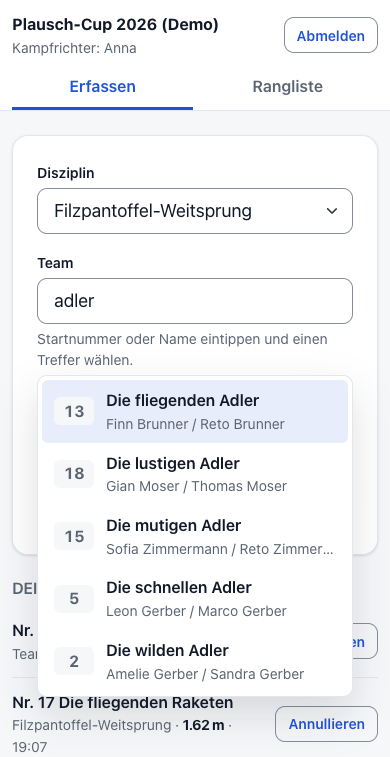
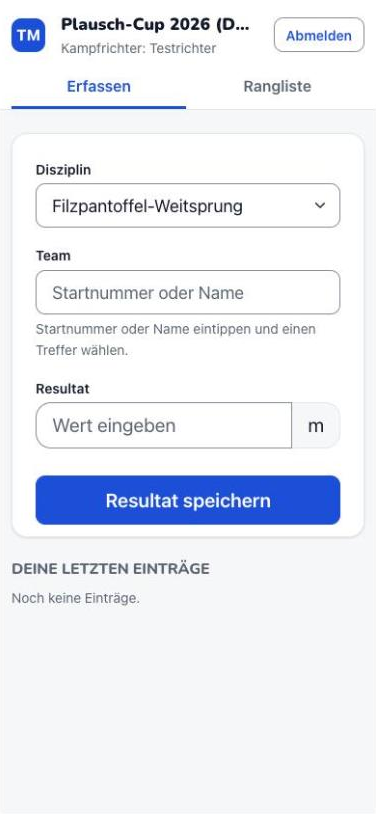
v0.12.1: Fehlerseiten, Anmelde-Bestätigung, Mail, Karten ohne Foto, Kampfrichter-Kopf; README-Screenshots
- Hinweis-/Fehlerseiten im Seitenlayout mit «Zur Startseite»
- Anmelde-Bestätigung mit Startnummer als Sticker, Mail mit Vereinsfarben-Kopf
- Disziplin-Karten ohne Foto kompakt, Kampfrichter-Kopf mit Logo
- format_text: Liste und Folgezeile ohne Leerzeile werden getrennt
- README: neue Screenshots (Demo-Verein, gemeinfreie Fotos und KI-Bilder)

diff --git a/assets/css/app.css b/assets/css/app.css
@@ -664,6 +664,8 @@ pre.env-preview {
     z-index: 1020;
 }
 .judge-event { font-weight: 700; }
+.font-rounded .judge-event { font-family: var(--font-display); font-weight: 900; font-size: 1.1rem; }
+.judge-logo img, .judge-logo .logo-placeholder { height: 2.2rem; }
 .judge-name { font-size: var(--fs-sm); color: var(--text-muted); }
 .judge-tabs { display: flex; gap: var(--space-1); margin-top: var(--space-2); }
 .judge-tabs a {
@@ -1387,6 +1389,43 @@ html { scroll-padding-top: 5rem; scroll-padding-bottom: 6rem; } /* Fokus nicht u
     .podium--classic .podium-3 { order: 3; }
 }
 .ranking-explain { border-radius: 1.25rem; }
+
+/* Disziplin-Karten ohne Foto: niedriger statt leerem Hochformat (ab 0.12.1) */
+.disc-card:not(.disc-card--photo) { aspect-ratio: auto; min-height: 9.5rem; }
+.disc-card:not(.disc-card--photo) .disc-text { position: relative; padding-top: 3.6rem; }
+
+/* Bestätigung nach der Anmeldung */
+.done-card .card-body { text-align: center; padding: clamp(2rem, 6vw, 3rem) var(--space-5); }
+.done-badge { display: inline-grid; place-items: center; width: 3.2rem; height: 3.2rem; border-radius: 50%; background: var(--success-subtle); color: var(--success); margin-bottom: var(--space-3); }
+.done-badge .ico { width: 1.6rem; height: 1.6rem; stroke-width: 3; vertical-align: 0; }
+.done-title { font-size: clamp(1.6rem, 1.2rem + 1.6vw, 2.2rem); margin-bottom: var(--space-1); overflow-wrap: anywhere; }
+.font-rounded .done-title { font-weight: 900; }
+.done-sub { font-size: var(--fs-lg); margin-bottom: var(--space-5); }
+.done-number { display: inline-flex; flex-direction: column; align-items: center; gap: var(--space-2); margin-bottom: var(--space-4); }
+.done-number-label { font-weight: 700; color: var(--text-muted); font-size: var(--fs-sm); }
+.done-number-value {
+    display: inline-grid;
+    place-items: center;
+    min-width: 5.5rem;
+    padding: 0.6rem 1.2rem;
+    border-radius: 1.1rem;
+    background: var(--accent);
+    color: var(--accent-contrast);
+    font-family: var(--font-display);
+    font-weight: 900;
+    font-size: 3.2rem;
+    line-height: 1;
+    font-variant-numeric: tabular-nums;
+    box-shadow: 0 6px 0 rgba(0, 0, 0, 0.18);
+    transform: rotate(var(--tilt));
+}
+
+/* Hinweis- und Fehlerseiten */
+.message-page { text-align: center; padding: clamp(3rem, 10vw, 6rem) var(--space-4); }
+.message-badge { width: 3.4rem; height: 3.4rem; margin-bottom: var(--space-4); }
+.message-badge .ico { width: 1.8rem; height: 1.8rem; }
+.message-text { font-size: clamp(1.25rem, 1rem + 1vw, 1.6rem); font-weight: 700; max-width: 34rem; margin: 0 auto var(--space-5); text-wrap: balance; }
+.font-rounded .message-text { font-family: var(--font-display); font-weight: 800; }
 @media (max-width: 575.98px) {
     .podium { gap: var(--space-2); }
     .podium-place {

diff --git a/templates/mail/registration.php b/templates/mail/registration.php
@@ -1,25 +1,57 @@
 <?php
-/** HTML-Bestätigungsmail. @var array $event  @var array $data  @var int $startNo  @var string $clubName */
+/**
+ * HTML-Bestätigungsmail (ab 0.12.1 im Stil der Website): Kopfbalken in der Vereinsfarbe, Startnummer gross.
+ * Tabellen und Inline-Stile, keine Bilder und keine Webfonts – so sieht sie in Outlook, Gmail und Apple Mail gleich aus.
+ * @var array $event  @var array $data  @var int $startNo  @var string $clubName  @var ?string $brandHex  @var ?string $brandText  @var ?string $accentHex  @var ?string $accentText
+ */
 $start = new DateTimeImmutable((string) $event['starts_at']);
 $isTeam = (int) $event['team_size'] > 1;
+$brand = $brandHex ?? '#1D284C';
+$brandInk = $brandText ?? '#FFFFFF';
+$accent = $accentHex ?? '#FEC028';
+$accentInk = $accentText ?? '#111827';
+$font = "system-ui, -apple-system, 'Segoe UI', Roboto, Arial, sans-serif";
+$h3 = 'margin: 22px 0 6px; font-size: 16px; color: #111827;';
 ?>
-<div style="font-family: system-ui, -apple-system, 'Segoe UI', Arial, sans-serif; font-size: 15px; line-height: 1.5; color: #111827; max-width: 560px;">
-    <h2 style="margin: 0 0 12px;">Anmeldung bestätigt</h2>
-    <p>Vielen Dank für die Anmeldung zum <strong><?= e($event['title']) ?></strong>. Wir freuen uns!</p>
-    <div style="background: #F3F4F6; border-radius: 8px; padding: 14px 16px; margin: 16px 0;">
-        <?= $isTeam ? 'Team' : 'Name' ?>: <strong><?= e($data['name']) ?></strong><br>
-        Startnummer: <strong><?= (int) $startNo ?></strong>
-        <?php if ($isTeam): ?>
-            <br><?php foreach ($data['members'] as $m): ?><?= e($m['name']) ?><br><?php endforeach; ?>
-        <?php endif; ?>
-    </div>
-    <p><strong>Wann:</strong> <?= e(format_event_date($start)) ?>
-        <?php if (!empty($event['location'])): ?><br><strong>Wo:</strong> <?= e($event['location']) ?><?php endif; ?></p>
-    <?php if (!empty($event['schedule_text'])): ?>
-        <h3 style="margin: 20px 0 6px; font-size: 16px;">Zeitplan</h3><?= format_text((string) $event['schedule_text']) ?>
-    <?php endif; ?>
-    <?php if (!empty($event['bring_text'])): ?>
-        <h3 style="margin: 20px 0 6px; font-size: 16px;">Mitnehmen</h3><?= format_text((string) $event['bring_text']) ?>
-    <?php endif; ?>
-    <p style="margin-top: 24px;">Sportliche Grüsse<br><?= e($clubName) ?></p>
+<div style="background: #F3F4F6; padding: 24px 12px; font-family: <?= $font ?>;">
+<table role="presentation" width="100%" cellpadding="0" cellspacing="0" style="max-width: 560px; margin: 0 auto; background: #FFFFFF; border-radius: 12px; overflow: hidden; border-collapse: separate;">
+    <tr>
+        <td style="background: <?= e($brand) ?>; color: <?= e($brandInk) ?>; padding: 20px 24px;">
+            <div style="font-size: 13px; font-weight: 600; opacity: 0.9;"><?= e($clubName) ?></div>
+            <div style="font-size: 22px; font-weight: 800; line-height: 1.25; margin-top: 2px;"><?= e($event['title']) ?></div>
+        </td>
+    </tr>
+    <tr>
+        <td style="padding: 24px; font-size: 15px; line-height: 1.55; color: #111827;">
+            <h2 style="margin: 0 0 8px; font-size: 20px;">Anmeldung bestätigt</h2>
+            <p style="margin: 0 0 18px;">Vielen Dank für die Anmeldung – wir freuen uns auf <?= $isTeam ? 'euch' : 'dich' ?>!</p>
+
+            <table role="presentation" width="100%" cellpadding="0" cellspacing="0" style="background: #F6F7F9; border-radius: 10px;">
+                <tr>
+                    <td style="padding: 14px 16px; vertical-align: middle;">
+                        <div style="font-size: 13px; color: #5B6472;"><?= $isTeam ? 'Team' : 'Name' ?></div>
+                        <div style="font-size: 17px; font-weight: 700;"><?= e($data['name']) ?></div>
+                        <?php if ($isTeam): ?>
+                            <div style="font-size: 14px; color: #5B6472; margin-top: 2px;"><?= e(implode(' · ', array_filter(array_map(static fn (array $m): string => (string) ($m['name'] ?? ''), $data['members'])))) ?></div>
+                        <?php endif; ?>
+                    </td>
+                    <td style="padding: 14px 16px; text-align: right; vertical-align: middle; width: 1%; white-space: nowrap;">
+                        <div style="font-size: 12px; color: #5B6472;">Startnummer</div>
+                        <div style="display: inline-block; margin-top: 2px; padding: 6px 14px; border-radius: 10px; background: <?= e($accent) ?>; color: <?= e($accentInk) ?>; font-size: 26px; font-weight: 800; line-height: 1;"><?= (int) $startNo ?></div>
+                    </td>
+                </tr>
+            </table>
+
+            <p style="margin: 18px 0 0;"><strong>Wann:</strong> <?= e(format_event_date($start)) ?>
+                <?php if (!empty($event['location'])): ?><br><strong>Wo:</strong> <?= e($event['location']) ?><?php endif; ?></p>
+            <?php if (!empty($event['schedule_text'])): ?>
+                <h3 style="<?= $h3 ?>">Zeitplan</h3><?= format_text((string) $event['schedule_text']) ?>
+            <?php endif; ?>
+            <?php if (!empty($event['bring_text'])): ?>
+                <h3 style="<?= $h3 ?>">Mitnehmen</h3><?= format_text((string) $event['bring_text']) ?>
+            <?php endif; ?>
+            <p style="margin: 24px 0 0;">Sportliche Grüsse<br><?= e($clubName) ?></p>
+        </td>
+    </tr>
+</table>
 </div>

diff --git a/src/helpers.php b/src/helpers.php
@@ -137,18 +137,29 @@ function format_event_date(DateTimeInterface $date, bool $withTime = true): stri
 function format_text(string $text): string
 {
     $html = '';
+    $inline = static fn (string $s): string => (string) preg_replace('/\*\*(.+?)\*\*/u', '<strong>$1</strong>', e($s));
     foreach (preg_split('/\R{2,}/', trim(str_replace("\r\n", "\n", $text))) ?: [] as $block) {
-        $lines = preg_split('/\R/', $block) ?: [];
-        $isList = $lines !== [] && array_reduce($lines, static fn (bool $all, string $l): bool => $all && preg_match('/^\s*[-*]\s+/', $l) === 1, true);
-        $inline = static fn (string $s): string => (string) preg_replace('/\*\*(.+?)\*\*/u', '<strong>$1</strong>', e($s));
-        if ($isList) {
-            $html .= '<ul>';
-            foreach ($lines as $line) {
-                $html .= '<li>' . $inline((string) preg_replace('/^\s*[-*]\s+/', '', $line)) . '</li>';
+        // Innerhalb eines Blocks: aufeinanderfolgende «- »-Zeilen werden zur Liste, die übrigen zum Absatz –
+        // so funktioniert auch «- Turnschuhe … ⏎ Festwirtschaft vor Ort» ohne Leerzeile dazwischen.
+        $runs = [];
+        foreach (preg_split('/\R/', $block) ?: [] as $line) {
+            $isItem = preg_match('/^\s*[-*]\s+/', $line) === 1;
+            if ($runs !== [] && $runs[count($runs) - 1][0] === $isItem) {
+                $runs[count($runs) - 1][1][] = $line;
+            } else {
+                $runs[] = [$isItem, [$line]];
             }
-            $html .= '</ul>';
-        } else {
-            $html .= '<p>' . implode('<br>', array_map($inline, $lines)) . '</p>';
+        }
+        foreach ($runs as [$isList, $lines]) {
+            if ($isList) {
+                $html .= '<ul>';
+                foreach ($lines as $line) {
+                    $html .= '<li>' . $inline((string) preg_replace('/^\s*[-*]\s+/', '', $line)) . '</li>';
+                }
+                $html .= '</ul>';
+            } else {
+                $html .= '<p>' . implode('<br>', array_map($inline, $lines)) . '</p>';
+            }
         }
     }
     return $html;

diff --git a/anmeldung.php b/anmeldung.php
@@ -53,10 +53,13 @@ if ($_SERVER['REQUEST_METHOD'] === 'POST' && $vars['open']) {
         try {
             $created = (new EntryRepository($pdo))->register((int) $event['id'], $result['data']);
             $data = $result['data'];
+            // Vereinsfarben für den Mail-Kopf (Schrift darauf lesbar berechnet, wie auf der Website)
+            $themeVars = \App\Service\Theme::variables((string) Settings::get('color_primary'), (string) Settings::get('color_secondary'))['light'];
+            $mailBrand = ['brandHex' => $themeVars['--hero-a'], 'brandText' => $themeVars['--hero-text'], 'accentHex' => $themeVars['--accent'], 'accentText' => $themeVars['--accent-contrast']];
             $mailSent = $data['email'] !== null && Mailer::send(
                 $data['email'],
                 'Anmeldebestätigung: ' . $event['title'],
-                View::capture('mail/registration', ['event' => $event, 'data' => $data, 'startNo' => $created['start_no'], 'clubName' => Settings::get('club_name')]),
+                View::capture('mail/registration', ['event' => $event, 'data' => $data, 'startNo' => $created['start_no'], 'clubName' => Settings::get('club_name')] + $mailBrand),
                 View::capture('mail/registration-text', ['event' => $event, 'data' => $data, 'startNo' => $created['start_no'], 'clubName' => Settings::get('club_name')])
             );
             $_SESSION['registered'] = ['name' => $data['name'], 'start_no' => $created['start_no'], 'mail' => $mailSent];

diff --git a/templates/registration.php b/templates/registration.php
@@ -17,11 +17,15 @@ $privacyContact = (string) Settings::get('privacy_contact');
 <div class="container-narrow mx-auto">
 
     <?php if ($done !== null): ?>
-        <div class="card mb-4">
-            <div class="card-body text-center py-5">
-                <div class="success-mark" aria-hidden="true">✓</div>
-                <h2 class="h4">Danke, <?= e($done['name']) ?> ist angemeldet!</h2>
-                <p class="mb-1">Startnummer <strong><?= (int) $done['start_no'] ?></strong></p>
+        <div class="card done-card mb-4">
+            <div class="card-body">
+                <span class="done-badge" aria-hidden="true"><?= icon('check') ?></span>
+                <h2 class="done-title">Danke, <?= e($done['name']) ?>!</h2>
+                <p class="done-sub"><?= $isTeam ? 'Ihr seid angemeldet.' : 'Du bist angemeldet.' ?></p>
+                <div class="done-number">
+                    <span class="done-number-label">Startnummer</span>
+                    <span class="done-number-value"><?= (int) $done['start_no'] ?></span>
+                </div>
                 <p class="text-muted mb-4"><?= $done['mail'] ? 'Eine Bestätigung ist per E-Mail unterwegs.' : 'Bitte notiere dir die Startnummer.' ?></p>
                 <div class="d-flex flex-wrap justify-content-center gap-2">
                     <a class="btn btn-outline-primary" href="<?= e(url('startliste.php', \App\Http\App::eventQuery($event))) ?>">Zur Startliste</a>

diff --git a/tests/DomainTest.php b/tests/DomainTest.php
@@ -160,6 +160,10 @@ return [
         $code = EventRepository::generateJudgeCode();
         assert_true(preg_match('/^[A-HJKMNP-Z2-9]{8}$/', $code) === 1, "Code {$code}");
     },
+    'Helpers: format_text trennt Liste und Folgezeile ohne Leerzeile' => function (): void {
+        assert_same('<ul><li>Turnschuhe</li><li>Trinken</li></ul><p>Festwirtschaft <strong>vor Ort</strong></p>', format_text("- Turnschuhe\n- Trinken\nFestwirtschaft **vor Ort**"));
+        assert_same('<p>Bitte mitbringen:</p><ul><li>Schuhe</li></ul>', format_text("Bitte mitbringen:\n- Schuhe"));
+    },
     'Helpers: format_text escaped HTML und baut Listen/Absätze' => function (): void {
         $html = format_text("Hallo <script>x</script> **Welt**\nZeile 2\n\n- Turnschuhe\n- Trinken");
         assert_same('<p>Hallo &lt;script&gt;x&lt;/script&gt; <strong>Welt</strong><br>Zeile 2</p><ul><li>Turnschuhe</li><li>Trinken</li></ul>', $html);

diff --git a/templates/errors/message.php b/templates/errors/message.php
@@ -1,6 +1,13 @@
-<?php /** @var string $message */ ?>
-<div class="card text-center">
-    <div class="card-body py-5">
-        <p class="mb-0"><?= e($message) ?></p>
-    </div>
+<?php
+/**
+ * Hinweis- oder Fehlerseite. Mit $homeUrl (öffentliche Seiten) gibt es einen Weg zurück.
+ * @var string $message  @var ?string $homeUrl
+ */
+?>
+<div class="message-page">
+    <span class="home-badge message-badge" aria-hidden="true"><?= icon('info') ?></span>
+    <p class="message-text"><?= e($message) ?></p>
+    <?php if (!empty($homeUrl)): ?>
+        <a class="btn btn-accent btn-lg" href="<?= e($homeUrl) ?>"><?= e(t('error.to_home')) ?><?= icon('arrow', 'ico ico-go') ?></a>
+    <?php endif; ?>
 </div>

diff --git a/src/Http/App.php b/src/Http/App.php
@@ -199,7 +199,13 @@ final class App
     public static function notFound(string $message = 'Seite nicht gefunden.'): never
     {
         http_response_code(404);
-        View::render('errors/message', ['message' => $message, 'pageTitle' => 'Nicht gefunden'] + self::layoutVars(), 'layout-plain');
+        // Im normalen Seitenlayout (Kopf, Menü, Fuss) – sonst wäre die Seite eine Sackgasse.
+        $event = self::currentEvent();
+        View::render('errors/message', [
+            'message' => $message,
+            'pageTitle' => 'Nicht gefunden',
+            'homeUrl' => url('index.php', self::eventQuery($event)),
+        ] + self::layoutVars('', $event));
         exit;
     }
 

diff --git a/templates/layout-judge.php b/templates/layout-judge.php
@@ -20,9 +20,10 @@
     <link rel="stylesheet" href="<?= e(asset('assets/css/app.css')) ?>">
     <style><?= $themeCss ?></style>
 </head>
-<body class="judge-body">
+<body class="judge-body<?= !empty($roundedHeadings) ? ' font-rounded' : '' ?>">
 <header class="judge-header">
     <div class="container container-narrow d-flex align-items-center gap-3">
+        <span class="app-brand judge-logo"><?php $logoAlt = ''; require __DIR__ . '/partials/logo.php'; ?></span>
         <div class="flex-grow-1 min-w-0">
             <div class="judge-event text-truncate"><?= e($judge['event']['title'] ?? $clubName) ?></div>
             <?php if (!empty($judge)): ?>

diff --git a/lang/de.php b/lang/de.php
@@ -13,6 +13,7 @@ return [
 
     'footer.powered' => 'Erstellt mit {link}',
 
+    'error.to_home' => 'Zur Startseite',
     'home.intro' => 'Worum geht’s?',
     'home.recap' => 'Rückblick',
     'home.cta.title' => 'Seid ihr dabei?',

diff --git a/src/bootstrap.php b/src/bootstrap.php
@@ -10,7 +10,7 @@ if (defined('APP_ROOT')) {
 }
 
 define('APP_ROOT', dirname(__DIR__));
-define('APP_VERSION', '0.12.0');
+define('APP_VERSION', '0.12.1');
 
 if (PHP_VERSION_ID < 80100) {
     http_response_code(500);

diff --git a/README.md b/README.md
@@ -13,28 +13,35 @@ Läuft auf gewöhnlichem Webhosting, wird per FTP hochgeladen und im Browser ein
 Entstanden aus der Resultatverwaltung des «Oldies & Kids Cup» der Jugi Langenthal (Teams aus Kind und erwachsener Person) – verallgemeinert für alle Vereine.
 Das Schwesterprojekt für laufende Vereinsmeisterschaften ist [jugi-rms](https://github.com/sgeissbu/jugi-rms).
 
-**Status:** Version 0.9 (Beta). Die Wertung ist gegen eine echte Rangliste geprüft und von automatischen Tests abgedeckt; ein Einsatz im Ernstfall
-steht noch aus. Bitte vor dem ersten grossen Anlass einmal mit Probedaten durchspielen (siehe [Ausprobieren](#ausprobieren)).
+**Status:** Version 0.12 (Beta). Die Wertung ist gegen eine echte Rangliste geprüft und von automatischen Tests abgedeckt; ein Einsatz im Ernstfall
+von A bis Z steht noch aus – danach folgt Version 1.0. Bitte vor dem ersten grossen Anlass einmal mit Probedaten durchspielen (siehe [Ausprobieren](#ausprobieren)).
 
 <p align="center">
-  <img src="docs/screenshots/start-hell.jpg" alt="Startseite mit Countdown, Anmeldung und Infos" width="48%">
-  <img src="docs/screenshots/start-dunkel.jpg" alt="Dieselbe Startseite im Dunkelmodus" width="48%">
+  <img src="docs/screenshots/start-hell.jpg" alt="Startseite: Foto über die ganze Breite, Sticker, Titel, Anmeldeknopf und Info-Leiste mit Countdown" width="64%">
+  <img src="docs/screenshots/handy-start.png" alt="Dieselbe Startseite auf dem Handy" width="20%">
+</p>
+<p align="center">
+  <img src="docs/screenshots/start-dunkel.jpg" alt="Kurzpunkte mit Symbolen und Disziplinen als Bildkarten im Dunkelmodus" width="84%">
 </p>
 
 ## Was kann es?
 
+- **Startseite, die Lust macht:** Fotos bzw. Diashow über die ganze Breite, Sticker («25 Jahre …»), Kurzpunkte mit Symbolen, Disziplinen als Bildkarten, Zeitplan als Zeitleiste, «Mitnehmen» mit Symbolen und Countdown. Nach dem Anlass stellt sie sich selbst um: Rangliste statt Anmeldung, Rückblick statt Einladung.
 - **Anmeldung** für Einzelpersonen oder Teams mit 2–10 Mitgliedern – Felder (Geschlecht, Jahrgang) pro Mitglied Pflicht, freiwillig oder ausgeblendet. Mit Einwilligung, Spam-Schutz und Bestätigungsmail.
 - **Kampfrichter ohne Konto:** Code oder QR-Code scannen, Namen eingeben, loslegen. Erfassung fürs Handy gebaut: Suche nach Startnummer oder Name, Zeiten als `1:23.45` oder `83.45`, Teilmessungen, Korrektur der letzten Eingaben.
-- **Automatische Rangliste** nach Rangpunkten, live während des Anlasses (aktualisiert sich selbst), mit Kategorien (z.B. «U10 Mädchen»), Handicap-Faktoren und Strafrang bei fehlenden Resultaten.
+- **Automatische Rangliste** nach Rangpunkten, live während des Anlasses (aktualisiert sich selbst), mit Podest pro Kategorie (z.B. «U10 Mädchen»), Handicap-Faktoren und Strafrang bei fehlenden Resultaten.
 - **Admin-Bereich** für alles Laufende: Anlässe (auch als Vorlage kopieren), Disziplinen, Kategorien, Teilnehmende (nachmelden, ändern, CSV-Export), Resultate (annullieren, nachtragen), Admins.
-- **Eigenes Aussehen in zwei Minuten:** zwei Farben, Logo, Fotos. Schriftfarben und Dunkelmodus werden automatisch lesbar berechnet; eine Vorschau zeigt das Ergebnis sofort und warnt bei schlecht lesbaren Farben.
+- **Eigenes Aussehen in zwei Minuten:** zwei Farben, Logo, Fotos, Titelschrift (rund oder schlicht). Schriftfarben und Dunkelmodus (im Farbton des Vereins) werden automatisch lesbar berechnet; eine Vorschau zeigt das Ergebnis sofort und warnt bei schlecht lesbaren Farben. Favicon und Icon für den Home-Bildschirm entstehen aus dem Logo.
 - **Datenschutz eingebaut:** Namen auf den Listen voll, gekürzt oder nur als Startnummer; Jahrgang und E-Mail nie öffentlich; «Anlass anonymisieren» löscht alle Personendaten unwiderruflich und friert die Rangliste ein.
-- **Druckbar:** Start- und Rangliste (Rangliste im Querformat). Die Rangliste gibt es ausserdem als PDF (A4 quer) – zum Herunterladen oder zum Ausdrucken: «Drucken» öffnet das PDF in einem Browser-Tab mit Druckfunktion.
+- **Druckbar:** Start- und Rangliste. Die Rangliste gibt es ausserdem als PDF (A4 quer, mit Kopfband in der Vereinsfarbe und Podest) – zum Herunterladen oder zum Ausdrucken: «Drucken» öffnet das PDF in einem Browser-Tab mit Druckfunktion.
 
 <p align="center">
-  <img src="docs/screenshots/rangliste-hell.jpg" alt="Rangliste am Computer" width="62%">
-  <img src="docs/screenshots/handy-rangliste.png" alt="Rangliste auf dem Handy" width="17%">
-  <img src="docs/screenshots/handy-erfassen.png" alt="Resultaterfassung auf dem Handy" width="17%">
+  <img src="docs/screenshots/rangliste-hell.jpg" alt="Live-Rangliste mit Podest am Computer" width="58%">
+  <img src="docs/screenshots/handy-rangliste.png" alt="Rangliste auf dem Handy" width="19%">
+  <img src="docs/screenshots/handy-erfassen.png" alt="Resultaterfassung auf dem Handy" width="19%">
+</p>
+<p align="center">
+  <img src="docs/screenshots/startliste-hell.jpg" alt="Startliste als Kacheln mit Startnummer" width="58%">
 </p>
 
 ## Installation
@@ -144,3 +151,9 @@ php tests/run.php               # alle Tests (eigener Runner, keine Abhängigkei
 [qrcode-generator](https://github.com/kazuhikoarase/qrcode-generator) (MIT) und für den Ranglisten-PDF [Dompdf 3.1.6](https://github.com/dompdf/dompdf) (LGPL-2.1)
 samt den darin enthaltenen Bibliotheken PHP CSS Parser (MIT), Masterminds HTML5 (MIT), PHP Font Lib (LGPL-2.1), PHP SVG Lib (LGPL-3.0) und Composer ClassLoader (MIT),
 die Titelschrift [Nunito](https://github.com/googlefonts/nunito) (SIL OFL 1.1) und Symbole aus [Lucide](https://lucide.dev) (ISC) – die jeweiligen Lizenzen liegen bei den Dateien.
+
+**Fotos in den Screenshots:** teils gemeinfreie Bilder von Wikimedia Commons (Public Domain bzw. CC0), u.a. aus der Serie
+[«Vilseck Elementary School Family Fun Run»](https://commons.wikimedia.org/wiki/File:Vilseck_Elementary_School_Family_Fun_Run_(7840531).jpg),
+[VMC Color Run](https://commons.wikimedia.org/wiki/File:VMC_Color_Run_(8972304).jpg) und
+[Potato sack race in Sterling KS](https://commons.wikimedia.org/wiki/File:Potato_sack_race_in_Sterling_KS_250th.jpg) (CC0),
+teils mit KI erzeugt (FLUX.2, lokal mit Draw Things: Seilziehen, Frisbee, Parcours, Siegerehrung) – darauf sind keine echten Personen zu sehen. Verein, Anlass und Namen sind erfunden.
